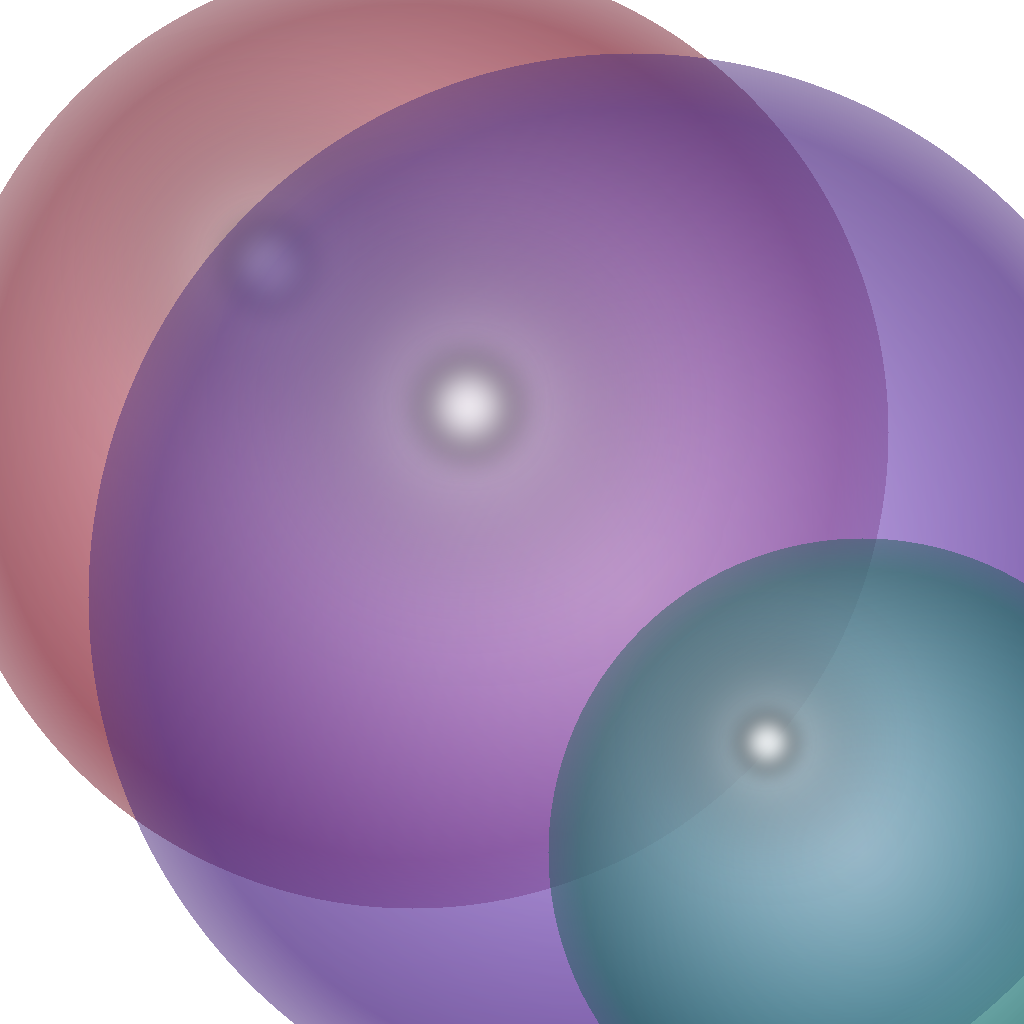
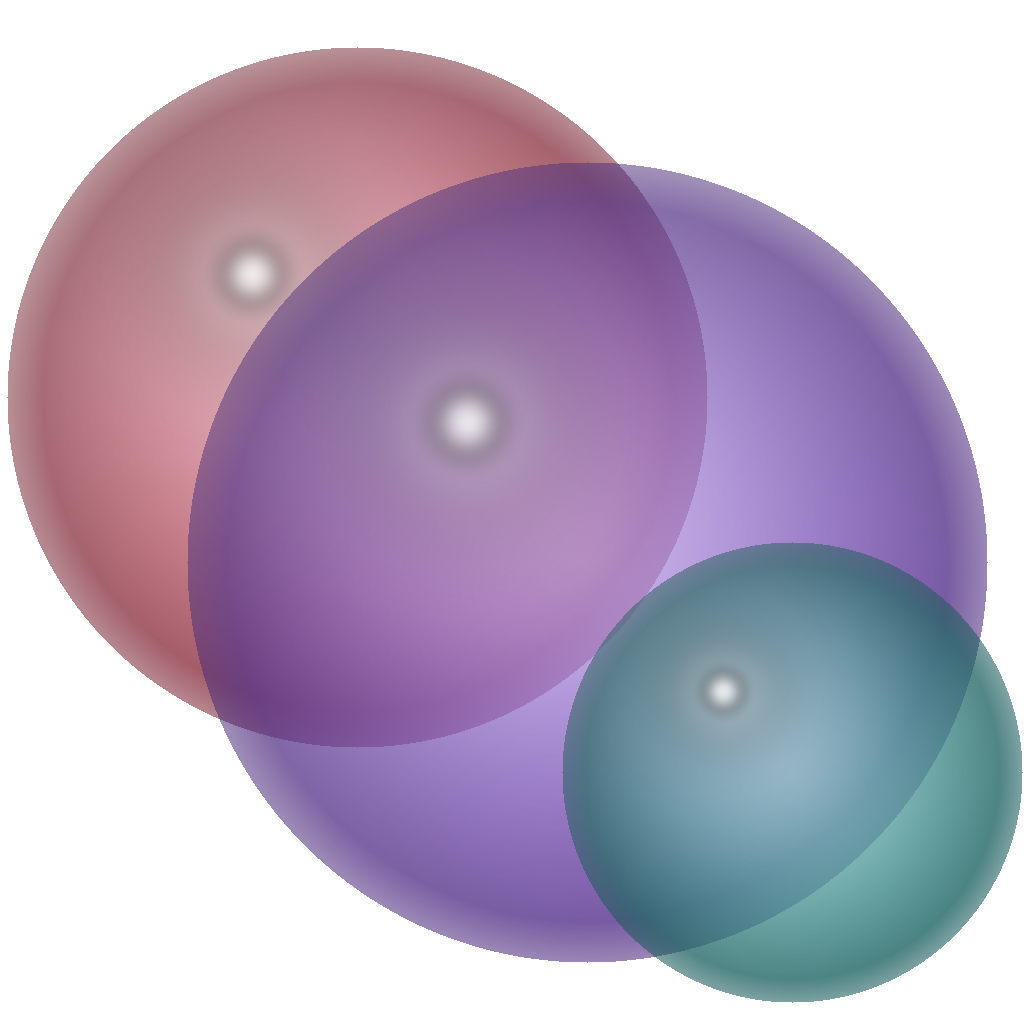
Fix Veilid ProtectedStore error + relay works without Veilid
- Create Veilid state directories before initialization
  (protected_store, table_store, block_store)
- Relay connects regardless of Veilid success — messaging works
  even when Veilid fails with ProtectedStore error
- Extract _connectRelay() helper to avoid duplicate code
- Veilid failure logged but doesn't block app functionality
- Icon resized to 125% (fits within rounded square)

diff --git a/safesocial_app/lib/main.dart b/safesocial_app/lib/main.dart
@@ -1,3 +1,5 @@
+import 'dart:io';
+
 import 'package:flutter/material.dart';
 import 'package:path_provider/path_provider.dart';
 import 'package:provider/provider.dart';
@@ -40,36 +42,30 @@ void main() async {
   await groupService.loadGroups();
   await feedService.loadPosts();
 
-  // Set up relay for existing contacts (chat + feed sync)
-  if (identityService.publicKey != null) {
-    chatService.setMyPublicKey(identityService.publicKey!);
-    for (final contact in contactService.contacts) {
-      chatService.connectRelay(contact.publicKey);
-    }
-    feedService.initSync(identityService.publicKey!, contactService.contacts);
-    groupService.initSync(identityService.publicKey!);
-  }
+  // Set up relay for existing contacts — works WITHOUT Veilid
+  _connectRelay(identityService, chatService, feedService, groupService, contactService);
 
   // Start Veilid in the background AFTER the app is running
   WidgetsBinding.instance.addPostFrameCallback((_) async {
     try {
       final appDir = await getApplicationDocumentsDirectory();
       final statePath = '${appDir.path}/veilid';
+
+      // Ensure Veilid state directories exist
+      await Directory(statePath).create(recursive: true);
+      await Directory('$statePath/protected_store').create(recursive: true);
+      await Directory('$statePath/table_store').create(recursive: true);
+      await Directory('$statePath/block_store').create(recursive: true);
+
       await veilidService.initialize(statePath);
       await identityService.loadIdentity();
       await chatService.loadConversations();
 
-      // Connect relay for any contacts loaded from Veilid
-      if (identityService.publicKey != null) {
-        chatService.setMyPublicKey(identityService.publicKey!);
-        for (final contact in contactService.contacts) {
-          chatService.connectRelay(contact.publicKey);
-        }
-        feedService.initSync(identityService.publicKey!, contactService.contacts);
-        groupService.initSync(identityService.publicKey!);
-      }
+      // Reconnect relay with any new identity from Veilid
+      _connectRelay(identityService, chatService, feedService, groupService, contactService);
     } catch (e) {
-      debugPrint('[main] Veilid startup failed (local mode): $e');
+      DebugLogService().error('Main', 'Veilid startup failed (relay-only mode): $e');
+      // Relay still works — Veilid is optional for messaging
     }
   });
 
@@ -89,4 +85,25 @@ void main() async {
       child: const SpheresApp(),
     ),
   );
+}
+
+/// Connect relay for all existing contacts. Works without Veilid.
+void _connectRelay(
+  IdentityService identityService,
+  ChatService chatService,
+  FeedService feedService,
+  GroupService groupService,
+  ContactService contactService,
+) {
+  final pubKey = identityService.publicKey;
+  if (pubKey == null || pubKey.isEmpty) return;
+
+  chatService.setMyPublicKey(pubKey);
+  for (final contact in contactService.contacts) {
+    chatService.connectRelay(contact.publicKey);
+  }
+  feedService.initSync(pubKey, contactService.contacts);
+  groupService.initSync(pubKey);
+
+  DebugLogService().success('Main', 'Relay connected for ${contactService.contacts.length} contacts');
 }

diff --git a/safesocial_app/generate_icon_final.py b/safesocial_app/generate_icon_final.py
@@ -100,10 +100,10 @@ def main():
     r = int(SIZE * 0.22)
     draw.rounded_rectangle([0, 0, SIZE - 1, SIZE - 1], radius=r, fill=(255, 255, 255, 255))
 
-    # Three cascading 3D spheres — 170% size
-    bg = draw_3d_sphere(bg, CX - 100, CY - 80, 476, (200, 50, 75), alpha=200)    # Deep coral
-    bg = draw_3d_sphere(bg, CX + 120, CY + 85, 544, (100, 40, 190), alpha=190)   # Deep purple
-    bg = draw_3d_sphere(bg, CX + 350, CY + 340, 314, (30, 140, 140), alpha=200)  # Deep teal
+    # Three cascading 3D spheres — 125% size, fits within rounded square
+    bg = draw_3d_sphere(bg, CX - 155, CY - 115, 350, (200, 50, 75), alpha=200)   # Deep coral
+    bg = draw_3d_sphere(bg, CX + 75, CY + 50, 400, (100, 40, 190), alpha=190)    # Deep purple
+    bg = draw_3d_sphere(bg, CX + 280, CY + 260, 230, (30, 140, 140), alpha=200)  # Deep teal
 
     # Save
     os.makedirs(f"{BASE}/assets/images", exist_ok=True)
